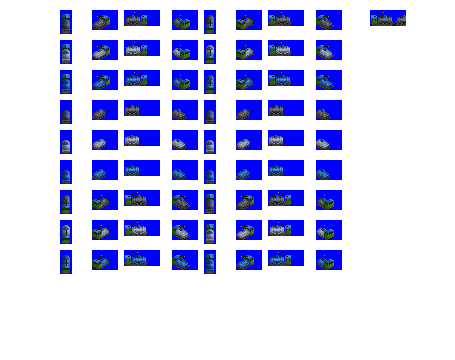
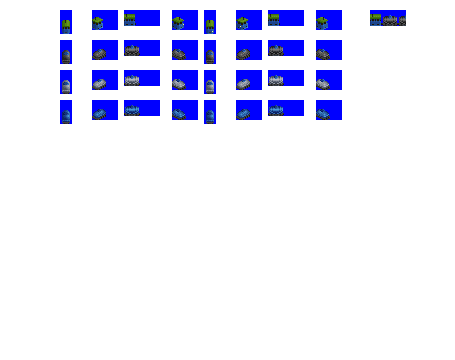
Change: adjust tanker trams

diff --git a/src/vehicles/drumbreck.py b/src/vehicles/drumbreck.py
@@ -10,18 +10,14 @@ consist = Tanker(id = 'drumbreck',
                 intro_date = 1870)
 
 consist.add_unit(weight = 10,
-                capacity = 16,
-                vehicle_length = 6,
-                effects = ['EFFECT_SPRITE_ELECTRIC, 0, 0, 10'])
+                vehicle_length = 3,
+                effects = ['EFFECT_SPRITE_ELECTRIC, 0, 0, 10'],
+                always_use_same_spriterow = True)
 
 consist.add_unit(weight = 5,
-                capacity = 16,
-                vehicle_length = 4)
-
-consist.add_unit(weight = 10,
-                capacity = 16,
-                vehicle_length = 6,
-                effects = ['EFFECT_SPRITE_ELECTRIC, 0, 0, 10'])
+                capacity = 24,
+                vehicle_length = 4,
+                repeat = 2)
 
 consist.add_model_variant(intro_date=0,
                        end_date=global_constants.max_game_date,

diff --git a/src/vehicles/catchcan.py b/src/vehicles/catchcan.py
@@ -9,17 +9,13 @@ consist = Tanker(id = 'catchcan',
                 vehicle_life = 40,
                 intro_date = 1902)
 
-consist.add_unit(weight = 10,
-                capacity = 24,
+consist.add_unit(weight = 12,
+                capacity = 36,
                 vehicle_length = 6,
                 effects = ['EFFECT_SPRITE_ELECTRIC, 0, 0, 10'])
 
-consist.add_unit(weight = 5,
-                capacity = 24,
-                vehicle_length = 4)
-
-consist.add_unit(weight = 10,
-                capacity = 24,
+consist.add_unit(weight = 12,
+                capacity = 36,
                 vehicle_length = 6,
                 effects = ['EFFECT_SPRITE_ELECTRIC, 0, 0, 10'])
 

diff --git a/src/vehicles/oylbarral.py b/src/vehicles/oylbarral.py
@@ -9,7 +9,7 @@ consist = Tanker(id = 'oylbarral',
                 vehicle_life = 40,
                 intro_date = 1945)
 
-consist.add_unit(weight = 10,
+consist.add_unit(weight = 12,
                 capacity = 32,
                 vehicle_length = 6,
                 effects = ['EFFECT_SPRITE_ELECTRIC, 0, 0, 10'])
@@ -18,7 +18,7 @@ consist.add_unit(weight = 5,
                 capacity = 32,
                 vehicle_length = 4)
 
-consist.add_unit(weight = 10,
+consist.add_unit(weight = 21,
                 capacity = 32,
                 vehicle_length = 6,
                 effects = ['EFFECT_SPRITE_ELECTRIC, 0, 0, 10'])
